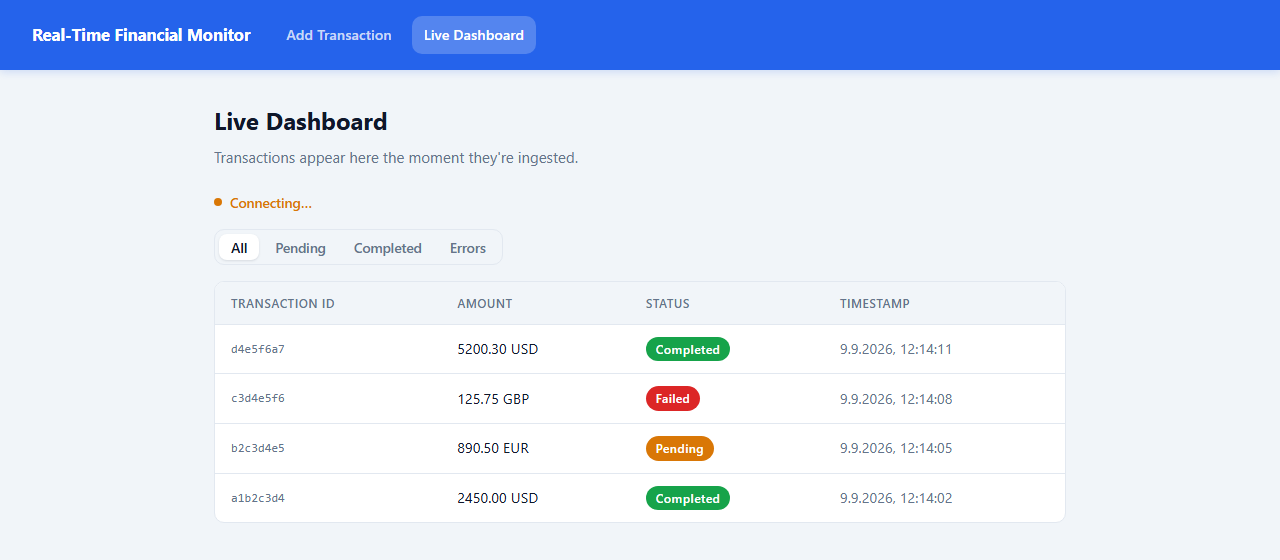
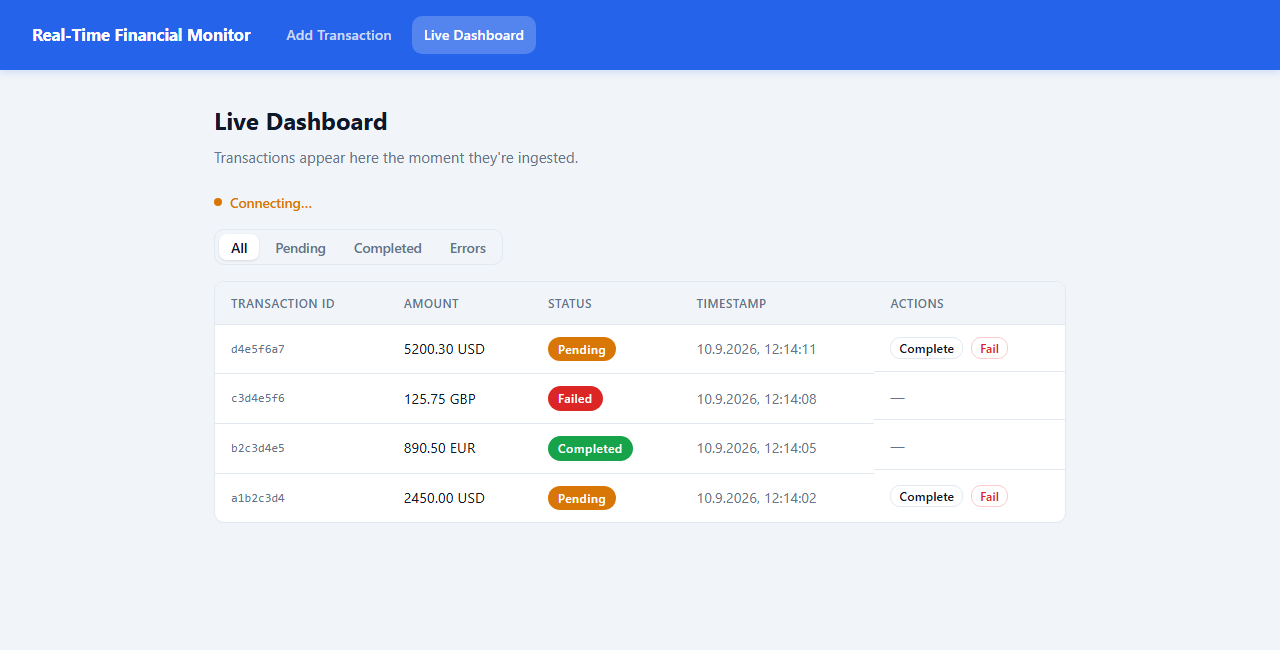
Refresh stale screenshot, re-verify cross-pod sync for TransactionUpdated, decide on Hub connection limiting

diff --git a/docs/DESIGN.md b/docs/DESIGN.md
@@ -278,6 +278,12 @@ Kubernetes liveness and readiness probe targets, respectively — deliberately n
 ### SignalR Hub: `/hubs/transactions`
 Push-only. No client-invokable methods. Clients subscribe to two events — `TransactionReceived` (new arrivals) and `TransactionUpdated` (status transitions, §10) — both driving the same merge-by-id logic on the frontend.
 
+> **Decision: no connection-count limiting on the Hub, unlike `POST`'s rate limiter (§10).**
+> **The question this closes:** an earlier review flagged this as an open gap — rate limiting was added for ingestion, but nothing stops an unbounded number of WebSocket connections being opened, which is a real (if different) resource-exhaustion vector. Left unresolved once; resolved here, deliberately, rather than left open.
+> **Why the answer is "not here, not at this layer":** in every environment this system actually runs in outside a bare `dotnet run` (`docker-compose.yml`, `k8s/backend-deployment.yaml`), the backend is **never directly reachable** — nginx/the K8s Service is the only public-facing surface (§18's reverse-proxy decision, made for exactly this reason: keep the backend an internal implementation detail). Connection-flood protection is a network-boundary concern, and this system already has a defined network boundary that isn't the application code. Duplicating that protection inside the SignalR hub would defend a boundary that, by design, doesn't face the internet in this deployment shape.
+> **Why this isn't the same reasoning as `POST`'s rate limiter:** the ingestion limiter defends against a *data-flooding* pattern specific to an unauthenticated write endpoint — a concern that exists regardless of network topology, because the assignment explicitly frames this as accepting data from "an external system." A raw connection flood is a generic infrastructure concern (the same one TLS termination, load balancing, and connection draining already are — all handled by nginx/the ingress, never by this app, per §18/§19's own established stance) — not something specific to this Hub.
+> **What a real production rollout would add here, and why it's not this project's job:** a reverse-proxy/ingress-level connection-rate limit (nginx's own `limit_conn`, or a cloud load balancer's connection-per-source throttle) — infrastructure configuration, not application code, and out of scope for the same reason a WAF or DDoS-mitigation service would be.
+
 ## 11. Real-Time Architecture
 
 > **Decision: SignalR, not raw `Microsoft.AspNetCore.WebSockets`.**

diff --git a/docs/adr/0001-distributed-sync-redis-backplane.md b/docs/adr/0001-distributed-sync-redis-backplane.md
@@ -3,6 +3,8 @@
 ## Status
 Accepted and **implemented** — see [DESIGN.md §20](../DESIGN.md#20-distributed-architecture) / §22 Phase 8. Verified with two separate backend containers sharing one Redis instance: a SignalR client connected only to instance A received a broadcast triggered by a `POST` sent only to instance B — the exact failure mode described below, now fixed.
 
+Re-verified separately after `TransactionUpdated` (§10 in DESIGN.md) was added: the backplane relays every `IHubContext.SendAsync` call regardless of event name, but that's a claim about the mechanism, not evidence for this specific event — re-ran the same two-instance test with a `PUT .../status` sent only to instance B, and a client connected only to instance A received the `TransactionUpdated` broadcast. Confirms the backplane's cross-pod guarantee wasn't accidentally scoped to the one event it was originally proven against.
+
 ## Context
 The backend is designed to be deployed as multiple replicas (pods) behind a Kubernetes Service (see `k8s/backend-deployment.yaml`, `replicas: 2`). Each pod runs its own independent SignalR server instance with its own in-memory connection registry.
 
